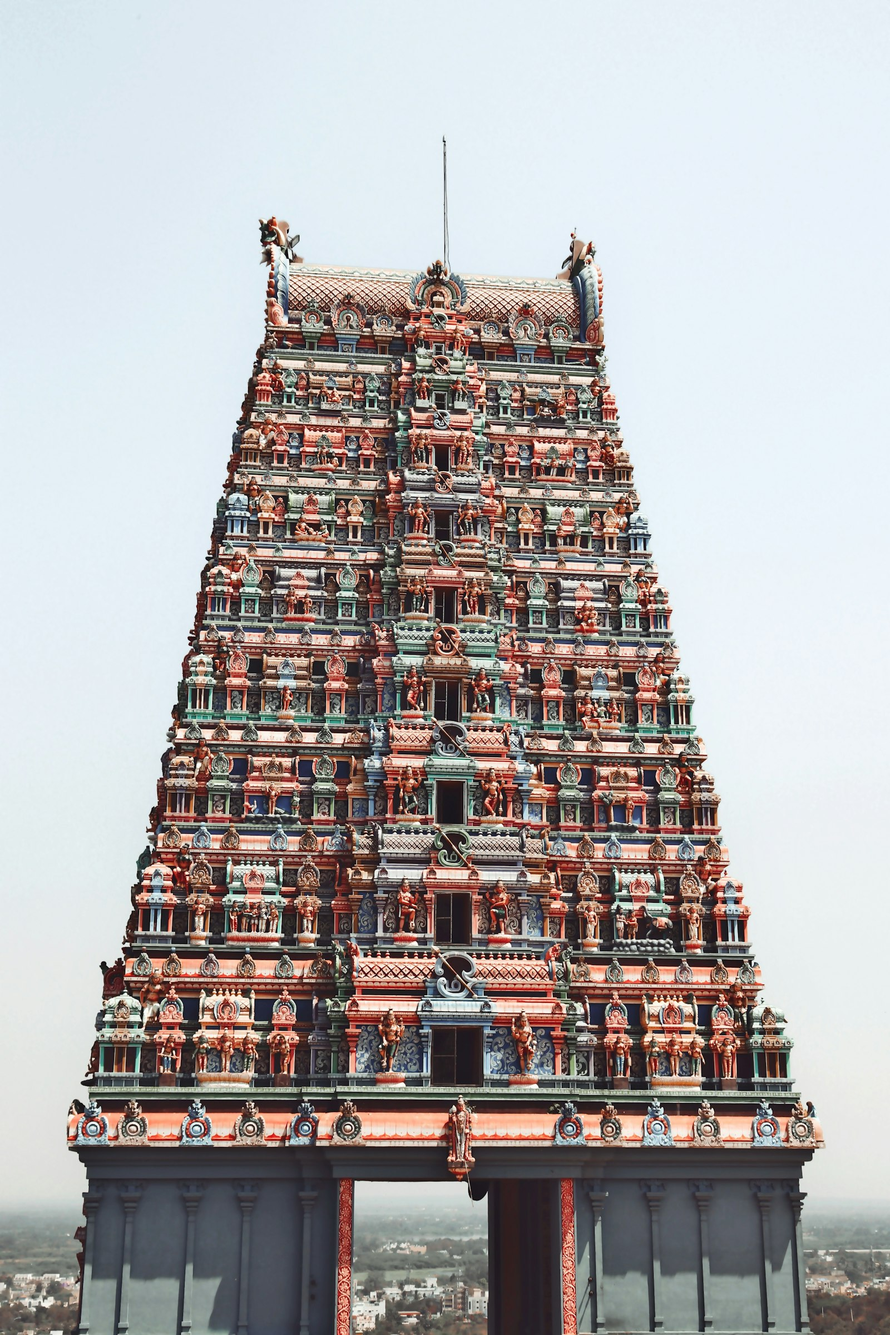
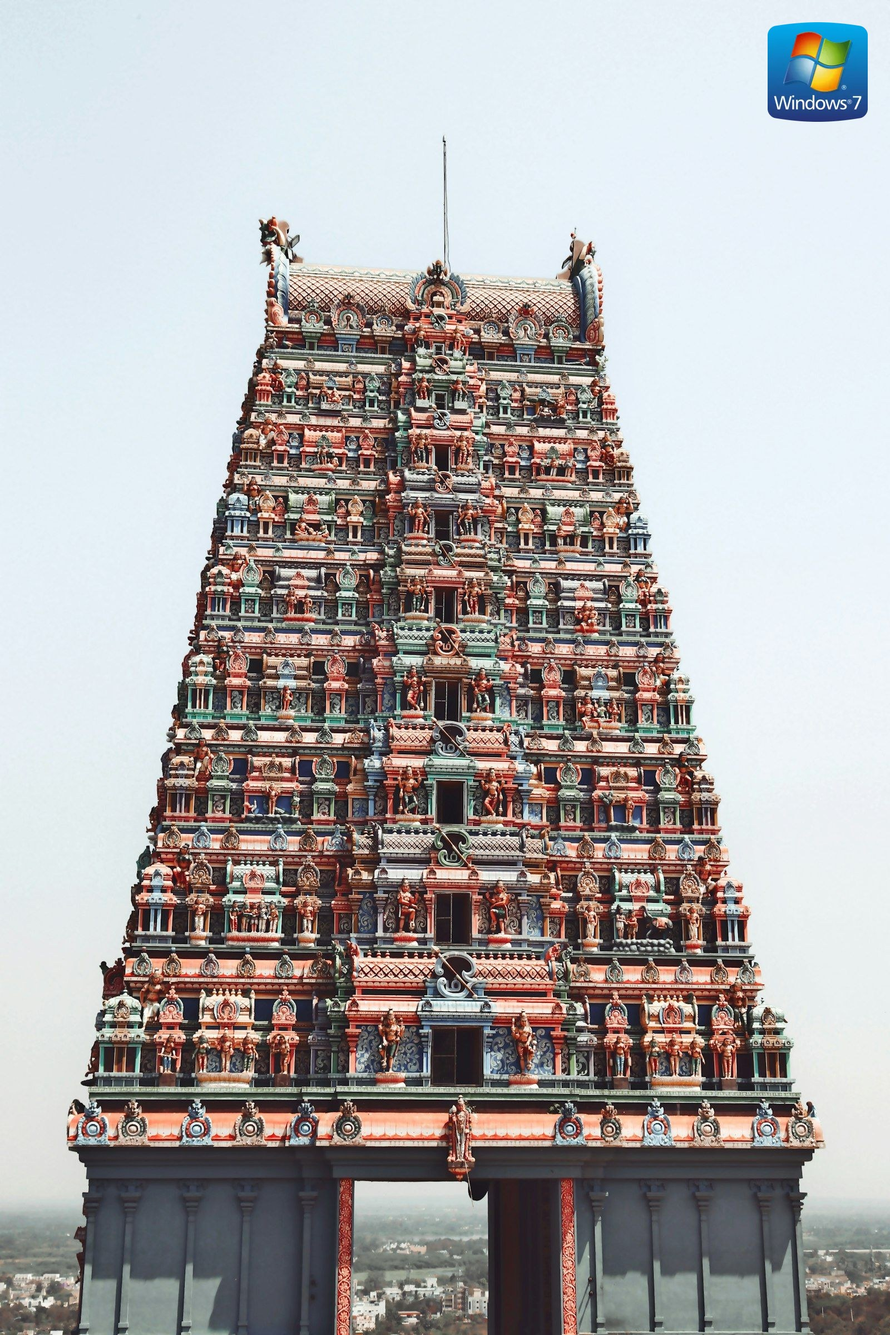
Expand the trademark-cover exception to the whole Win7/8/10/98/XP set
Composite the Windows 7 logo onto every remaining win7-* cover
(afternoon, calligraphy, cityscape, garden, landscape, quirky, raga,
savanna, sonata, and the author's personal heritage photo) and replace
the win8 cover with the official Microsoft splash art the author
provided, matching the treatment already applied to win10/win98/
xp-real/win7-delta/win7-characters/win7-festival. This is now a
deliberate, explicit product decision covering all 17 Windows 7/8/10/
98/XP packs; Vista and the Plus! packs stay on the DESIGN.md default
since no logo asset exists for those sub-brands.

Already published to the live R2 bucket (cover.jpg per pack +
sourceCredit in catalog.json) via the documented cover-only shortcut,
isolation-verified against the other packs' file lists before upload.

Changed region(s): [[0.8438, 0.0, 1.0, 0.0938]]

diff --git a/CLAUDE.md b/CLAUDE.md
@@ -135,14 +135,17 @@ Sobre licenciamento de áudio: os esquemas clássicos vêm de acervos públicos 
 fãs. O site é explícito que os arquivos de áudio não são redistribuídos pela
 Microsoft (`packs.note` no site) — isso continua verdade, mantenha essa linha.
 
-Sobre as capas, a regra **default** é a mesma: só imagens livres ou originais,
-nunca logo ou wallpaper com marca — é o que `scripts/build-catalog.mjs` faz na
-maioria dos packs. Existe uma **exceção deliberada**, por decisão explícita do
-autor: `xp-real`, `win10`, `win98` e `win7-delta` usam a logo/tela oficial da
-Microsoft; `win7-characters` e `win7-festival` têm a logo do Windows 7
-composta por cima. Está tudo documentado em `COVER_PHOTO_CREDITS` no próprio
-script, sem esconder que é material da Microsoft. Não generalize essa exceção
-para novos packs sem confirmar de novo — ela vale só para esses seis.
+Sobre as capas, a regra **default** é: só imagens livres ou originais, nunca
+logo ou wallpaper com marca — é o que `scripts/build-catalog.mjs` faz nos
+packs de Vista e Plus! (95 e XP), 11 ao todo. Existe uma **exceção
+deliberada**, por decisão explícita do autor, que hoje cobre todo o conjunto
+Windows 7/8/10/98/XP (17 packs): `xp-real`, `win10`, `win98`, `win8` e
+`win7-delta` usam a logo/tela oficial da Microsoft direto; todos os outros
+`win7-*` — incluindo `win7-heritage`, que é foto pessoal do autor — têm a logo
+do Windows 7 composta por cima. Está tudo documentado em
+`COVER_PHOTO_CREDITS` no próprio script, sem esconder que é material da
+Microsoft. Não generalize essa exceção para Vista/Plus! ou para novos packs
+sem confirmar de novo — não há arquivo de logo para essas sub-marcas hoje.
 
 ## Landing page
 
